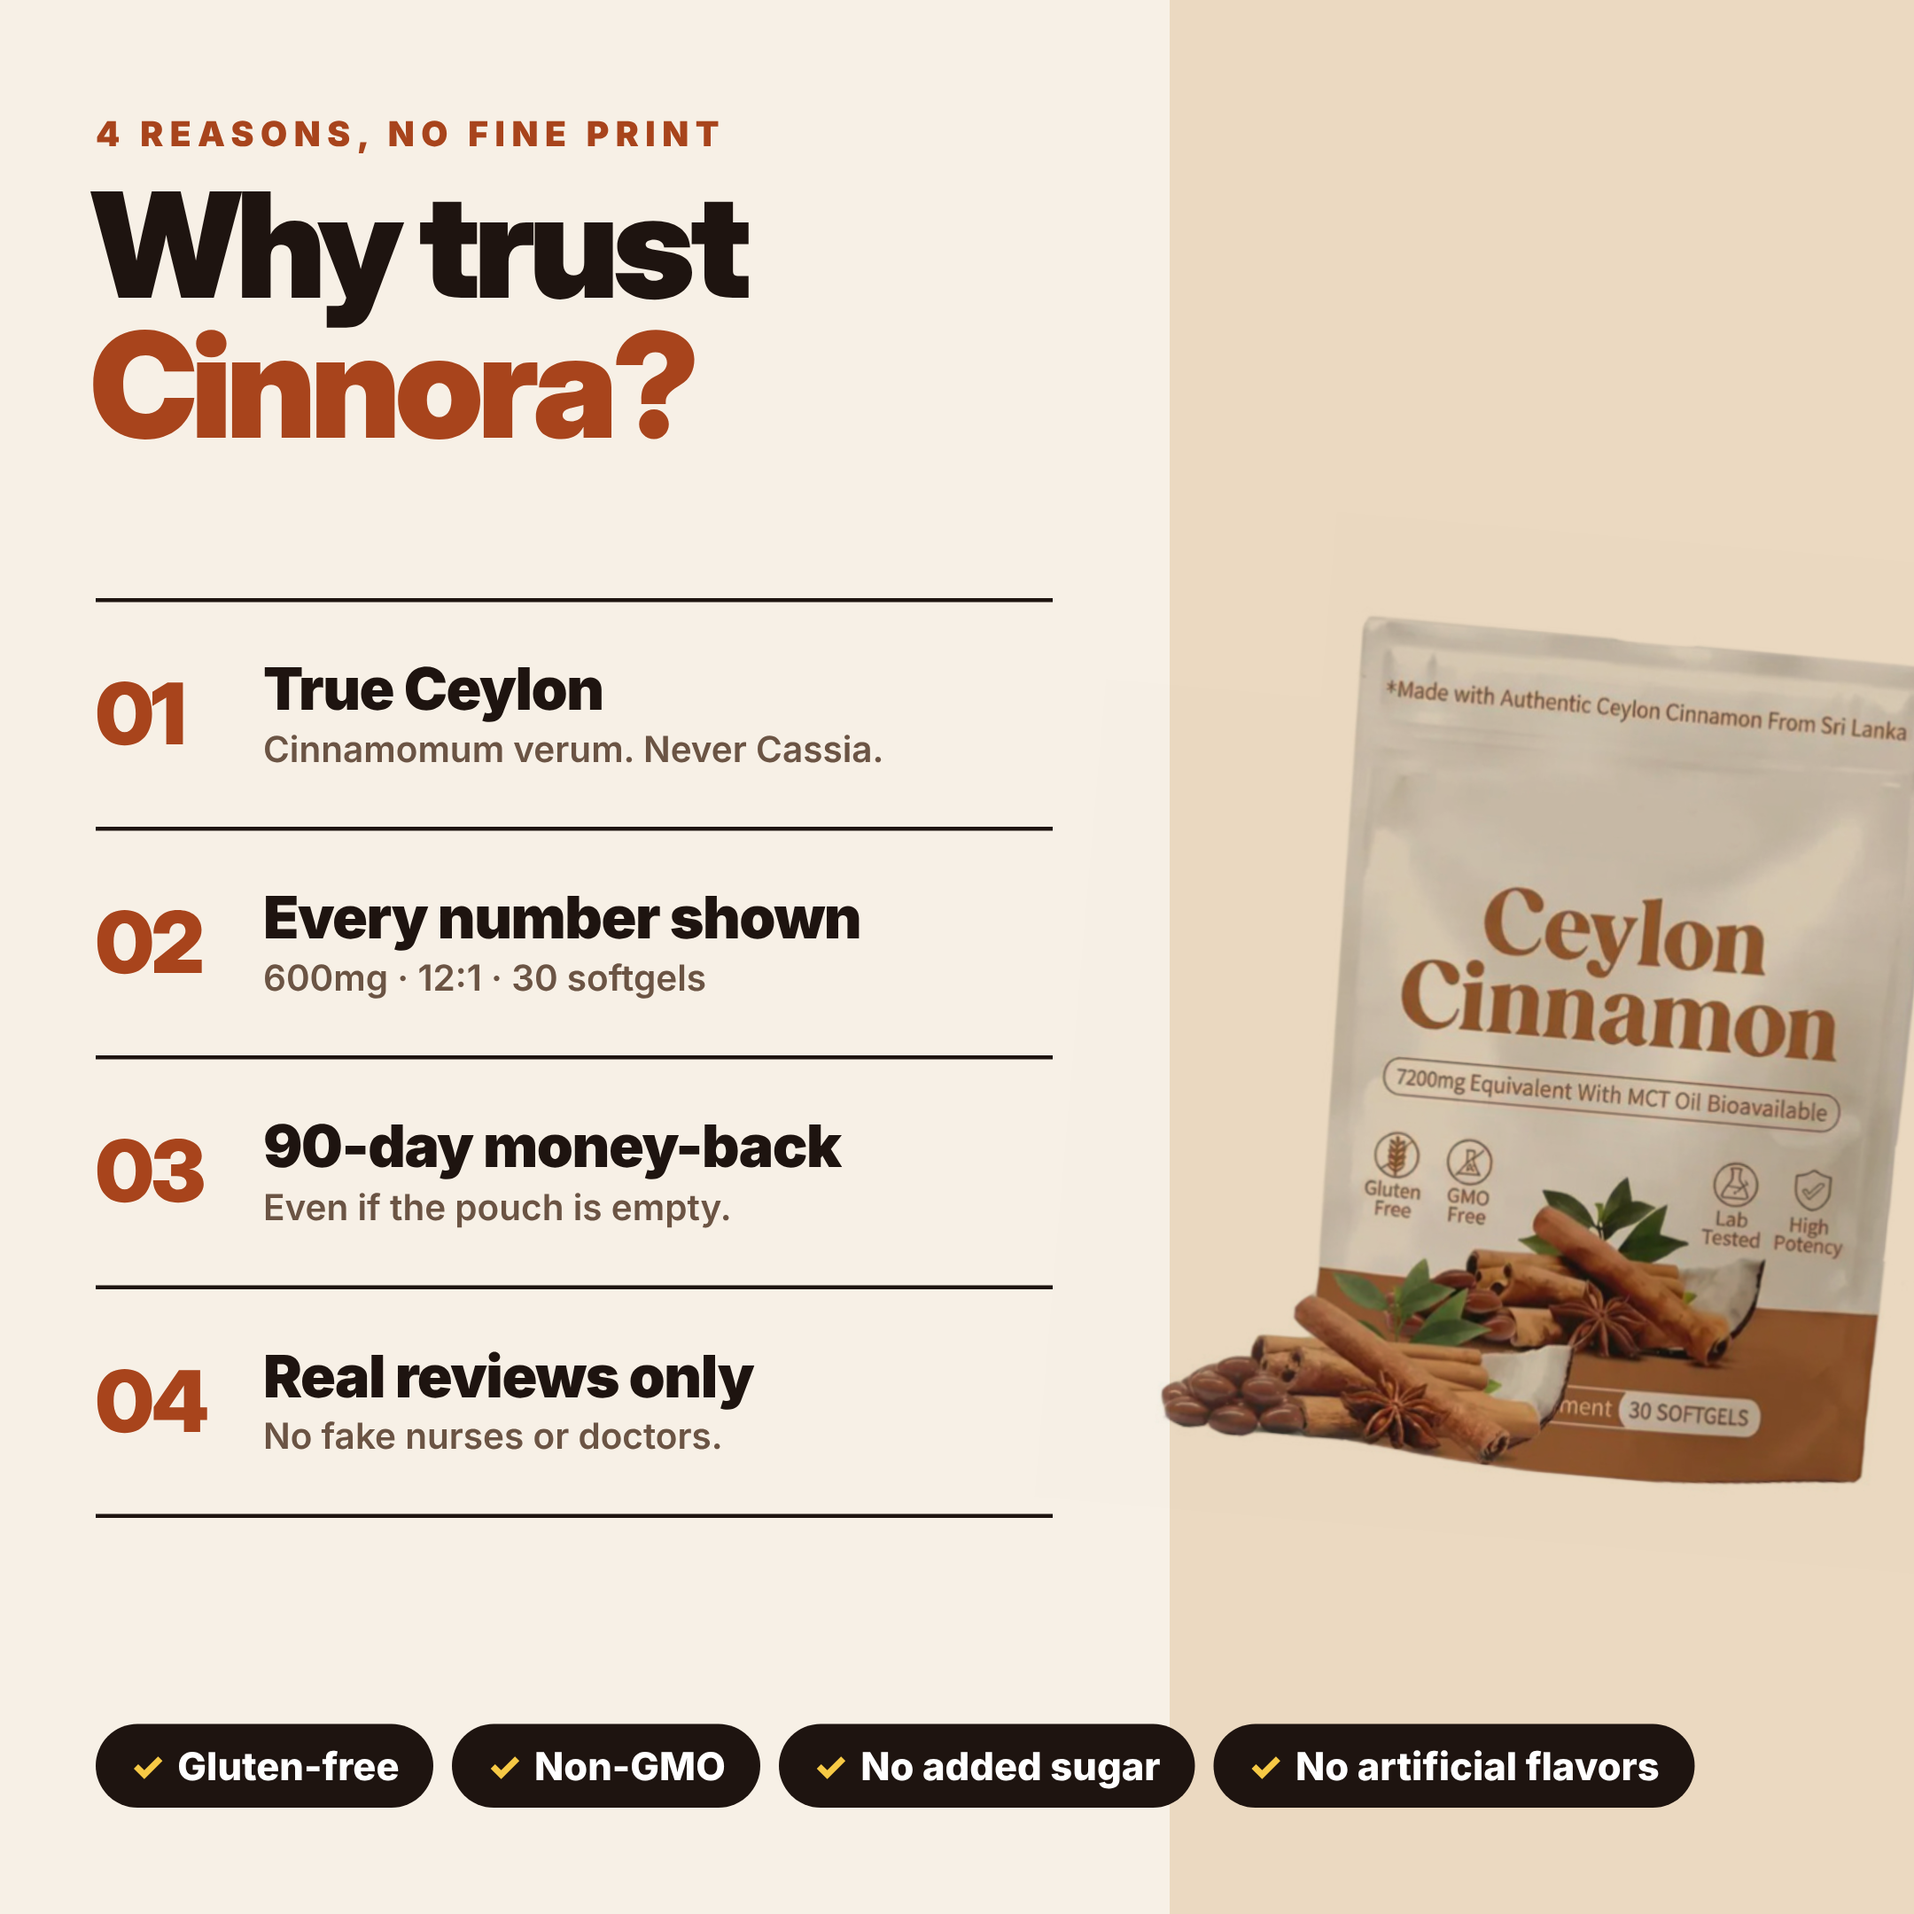
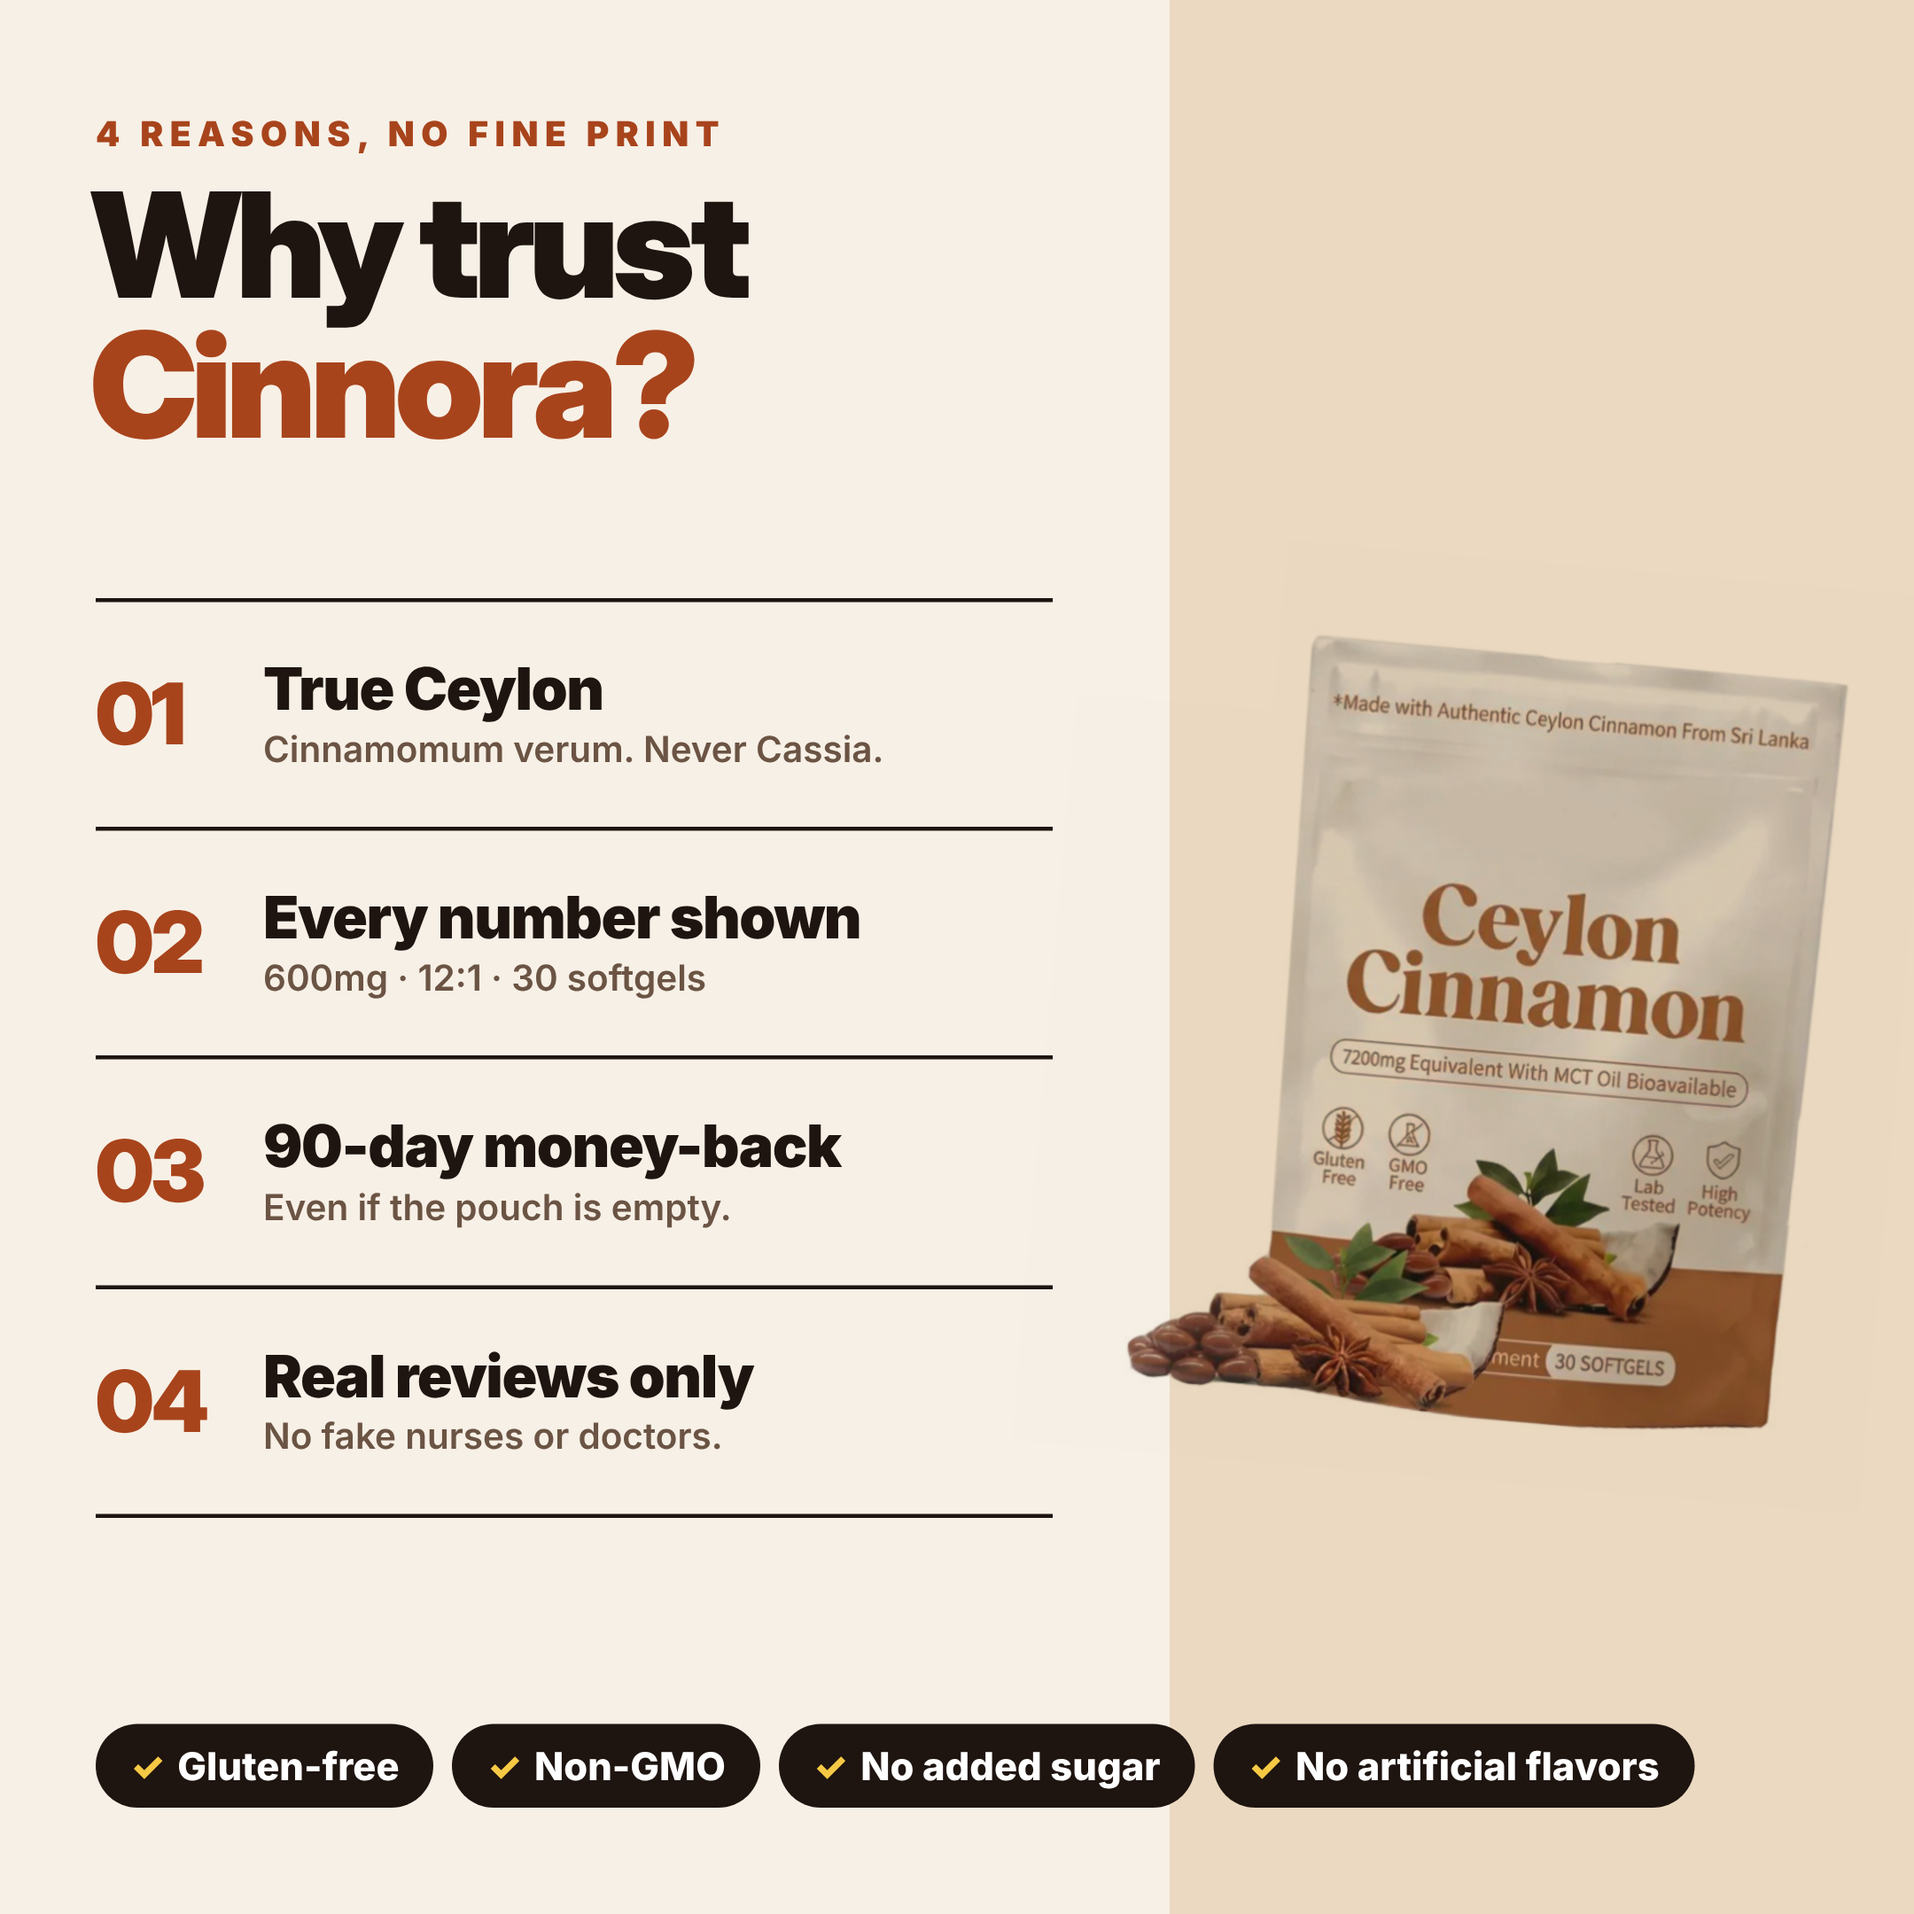
Cinnora: trust v5 pouch fit
Claude-Session: https://claude.ai/code/session_01WXdKv4Lmy6DFabBeRvSUZr

Changed region(s): [[0.5894, 0.3102, 1.0, 0.7755]]

diff --git a/ceylon-cinnamon/hero/trust5.html b/ceylon-cinnamon/hero/trust5.html
@@ -2,7 +2,7 @@
 *{box-sizing:border-box;margin:0;padding:0}
 #s{width:1440px;height:1440px;position:relative;overflow:hidden;font-family:'Inter',sans-serif;color:#1E1410;background:#F7F0E6}
 .side{position:absolute;right:0;top:0;bottom:0;width:560px;background:#EBD9C1}
-.pouch{position:absolute;left:810px;top:400px;width:700px;mix-blend-mode:multiply;transform:rotate(5deg)}
+.pouch{position:absolute;left:790px;top:420px;width:640px;mix-blend-mode:multiply;transform:rotate(5deg)}
 .k{position:absolute;left:72px;top:86px;color:#A8441C;font-weight:900;font-size:26px;letter-spacing:5px}
 .h{position:absolute;left:68px;top:132px;font-family:'Inter Display';font-weight:900;font-size:110px;letter-spacing:-4.5px;line-height:.95}
 .h b{color:#A8441C}
